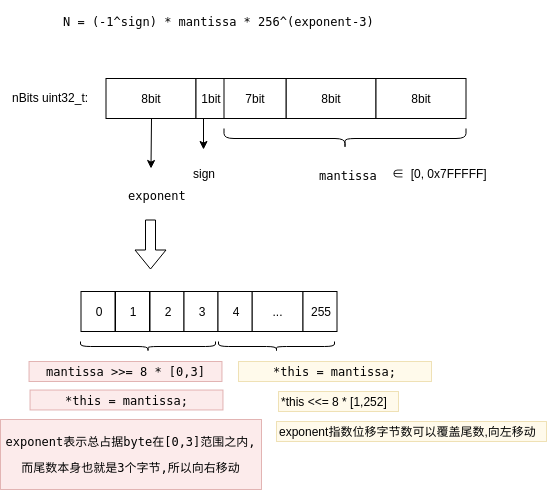
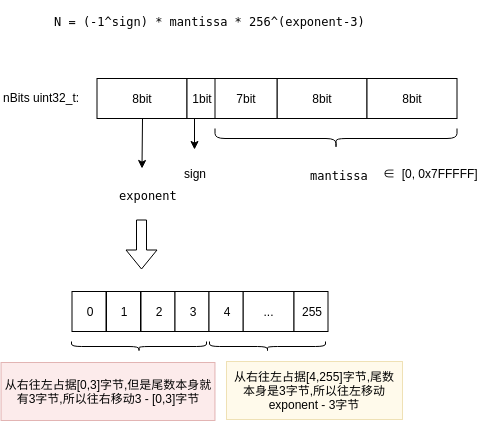
update

diff --git a/source/_posts/business/bitcoin/难度调整.md b/source/_posts/business/bitcoin/难度调整.md
@@ -17,6 +17,8 @@ categories: [business, bitcoin]
     - [3.2. GetCompact](#32-getcompact)
 - [4. difficulty](#4-difficulty)
 - [5. hash rate](#5-hash-rate)
+- [6. 挖矿矿机常见参数](#6-挖矿矿机常见参数)
+- [7. 参考资料](#7-参考资料)
 
 <!-- /TOC -->
 
@@ -75,10 +77,11 @@ pblock->nBits          = GetNextWorkRequired(pindexPrev, pblock, chainparams.Get
 ```bash
 # 最小难度值
[1 lines of base64/hex data omitted]
+转换成nBits会截断: 0x1d00ffff
 
-# 创世区块难度值(比最小难度值大一些)
-nBits: 0x1d00ffff
+# 创世区块难度值
[1 lines of base64/hex data omitted]
+nBits: 0x1d00ffff
 ```
 
 
@@ -223,6 +226,7 @@ if __name__ == "__main__":
 ![](./pic/ntarget2nbits.png)
 
 
+
 python实现
 
 https://github.com/daraosn/blockexplorer/blob/master/bin/getcompact.py
@@ -249,8 +253,12 @@ def tompi(n):
 
 def ntarget2bits(n):
         mpi = tompi(n)
+
+        # exponent is length
         exponent = len(mpi) - 4
         nBits = (exponent & 0xFF) << 24
+
+        # mantissa is char in string
         if exponent >= 1:
                 nBits |= (ord(mpi[4]) << 16)
         if exponent >= 2:
@@ -279,15 +287,52 @@ GetDifficulty
 
 ![](./pic/GetDifficulty.png)
 
-```
 难度累计的算法:
 
-以创世难度为起点(尾数0x00ffff左移动29)  (浮点数)
+```
+以创世难度为起点(尾数0x00ffff左移动 (29-3)byte )  (浮点数)
 
 * 尾数向右扩散(难度增加1字节,难度就乘以256)
 * 尾数向左扩散(难度减少1字节,难度见除以256)
 
-创世区块的难度为: 0x0000ffff / 0x00ffff =  1
+创世区块的难度为: 0x0000ffff / 0x00ffff  * 难度累计(无) =  1
+```
+
+
+而 bitcoin wiki的公式是:
+```
+difficulty = difficulty_1_target / current_target
+
+也就是:
+difficulty = ( 0x00ffff << (29-3)byte )  / ( 尾数 << (exponent-3)byte )
+
+其实含义与上面的难度累计算法是一致的, 只要达到:
+
+* (尾数,指数) 变大,难度变小
+* (尾数,指数) 变小,难度变大
+```
+
+bdiff,pdiff:
+```
+矿池pdiff(pool diffculty)一般使用未截断的target作为基准
[1 lines of base64/hex data omitted]
+
+
+而bdiff使用截断的target作为基准:
+0x00ffff << (29-3)byte
+```
+
+
+最大难度:
+```
+target=0,但是因为计算不出来没有意义. 只能算一个大致最大难度: 
+
+难度累计: 256^28(2^224)左右,还要加上尾数的变化. 也就是占据了1个字节的target
+```
+
+最小难度:
+```
+因为主网最小target的限制,最小难度为1
 ```
 
 python实现
@@ -329,3 +374,88 @@ if __name__ == "__main__":
 <a id="markdown-5-hash-rate" name="5-hash-rate"></a>
 # 5. hash rate
 
+难度1的偏移:
+```
+0xffff * 2 ** 208
+也就是:
+
+0x00ffff * 1 << 26(byte)
+```
+
+难度D的偏移:
+```
+（0xffff * 2 ** 208）/ D
+```
+
+要找到难度D的预期哈系数
+```
+D * 2 ** 256 /（0xffff * 2 ** 208）
+
+也就是:
+D / （0xffff * 2 ** 208） * 2 ** 256
+
+含义是:
+D偏移难度中的一个的概率 * 32字节数字的穷举数.即找到一个满足D偏移难度的数字要经过多少次hash.
+```
+
+简化一下:
+```
+D * 2 ** 48 / 0xffff
+```
+
+出块时间是10分钟,也就是600s,意味着网络哈系率是
+```
+D * 2 ** 48 / 0xffff / 600
+```
+
+简化一下
+```
+D * 2 ** 32 / 600
+```
+
+难度1时:
+```
+1 * 2 ** 32 / 600 = 7158278, 约7M hashes / s
+```
+
+难度为6.653 x 10^12时:
+```
+6.653 * 10 ** 12 * 2 ** 32 / 600 = 47,624,029,033,813,336,064
+
+也就是47.624E HASHS/s 才能够寻找到解
+```
+
+自己单独挖(明确了效率)要多久才能生成一个区块
+```
+time = D * 2 ** 32 / hashrate
+```
+
+
+使用1G hash/s 的设备生成一个20000难度的区块需要多久?
+```
+20000 * 2 ** 32 / 10 ** 9 / 60 / 60 = 23 小时
+```
+
+
+<a id="markdown-6-挖矿矿机常见参数" name="6-挖矿矿机常见参数"></a>
+# 6. 挖矿矿机常见参数
+
+* Mhash/s     每秒多少兆哈系计算次数
+* Mhash/J     每焦耳多少兆哈系计算次数, 1 J = 1 W*s
+* Mhash/s/$   每刀可以买多少哈系速率
+* Watts       功率
+* Price		  价格
+
+
+<a id="markdown-7-参考资料" name="7-参考资料"></a>
+# 7. 参考资料
+
+* https://en.bitcoin.it/wiki/Difficulty (包含上面所有的信息)
+* https://blockexplorer.com/api/status?q=getDifficulty (当前难度)
+* http://bitcoin.sipa.be/ (历史曲线)
+* https://en.bitcoin.it/wiki/Mining_hardware_comparison (矿机比较)
+
+---
+
+* https://99bitcoins.com/bitcoin-mining/bitcoin-mining-calculator/
+* https://alloscomp.com/bitcoin/calculator
